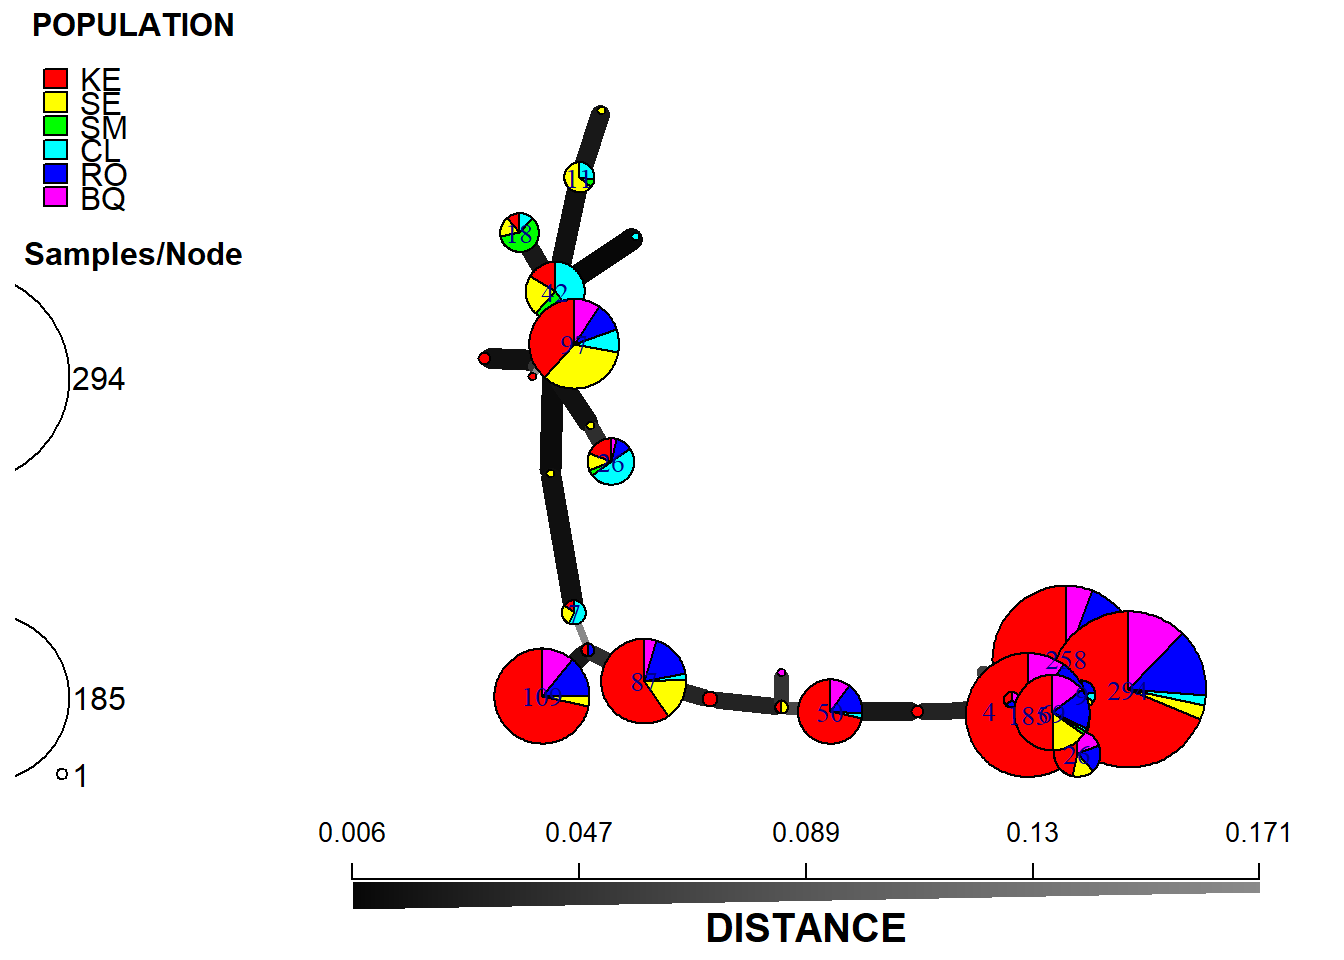
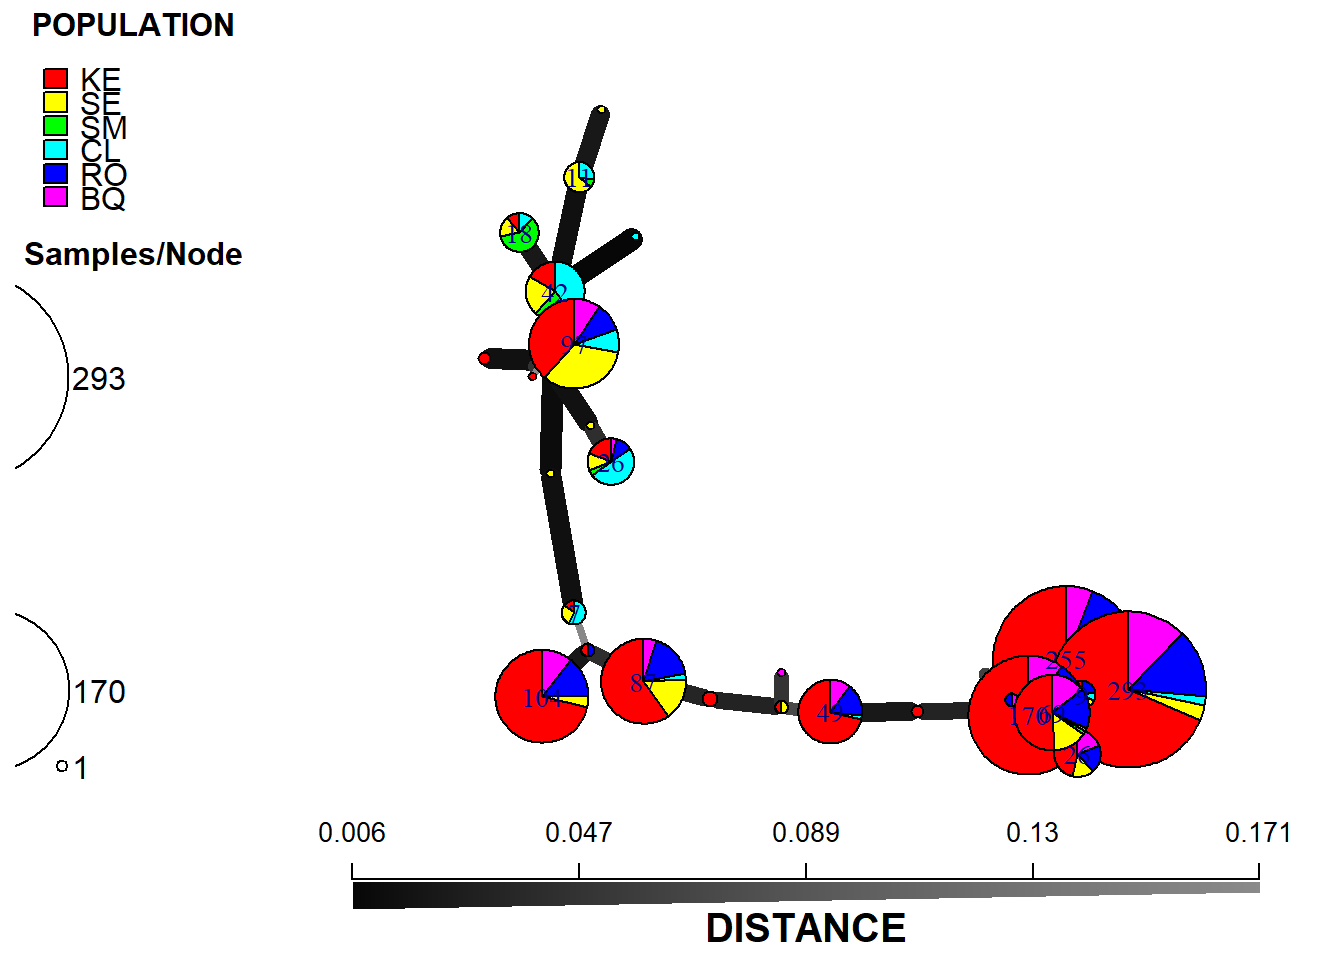
fixes

diff --git a/docs/pop2.html b/docs/pop2.html
@@ -495,7 +495,7 @@ data.frame(ssr = c(12,&quot;PInf_Ireland&quot;),
            pop =  length(unique(fin$Pop)))</code></pre>
 <div data-pagedtable="false">
 <script data-pagedtable-source type="application/json">
-{"columns":[{"label":["ssr"],"name":[1],"type":["fctr"],"align":["left"]},{"label":["samples"],"name":[2],"type":["int"],"align":["right"]},{"label":["pop"],"name":[3],"type":["int"],"align":["right"]}],"data":[{"1":"12","2":"1315","3":"51"},{"1":"PInf_Ireland","2":"1315","3":"51"}],"options":{"columns":{"min":{},"max":[10]},"rows":{"min":[10],"max":[10]},"pages":{}}}
+{"columns":[{"label":["ssr"],"name":[1],"type":["fctr"],"align":["left"]},{"label":["samples"],"name":[2],"type":["int"],"align":["right"]},{"label":["pop"],"name":[3],"type":["int"],"align":["right"]}],"data":[{"1":"12","2":"1287","3":"51"},{"1":"PInf_Ireland","2":"1287","3":"51"}],"options":{"columns":{"min":{},"max":[10]},"rows":{"min":[10],"max":[10]},"pages":{}}}
   </script>
 </div>
 <pre class="r"><code>write.table(data.frame(ssr = 12, samples = nrow(gen), pop =  length(unique(fin$Pop))),
@@ -528,7 +528,7 @@ monpop</code></pre>
 ## Genotype information:
 ## 
 ##      29 original multilocus genotypes 
-##    1315 triploid individuals
+##    1287 triploid individuals
 ##      12 codominant loci
 ## 
 ## Population information:
@@ -543,7 +543,7 @@ mutate(genotype = ifelse(genotype ==  &quot;6A1&quot;,&quot;EU_6_A1&quot;,
                                                  ifelse(genotype ==  &quot;8A1&quot;,&quot;EU_8_A1&quot;,&quot;&quot; ))))
  
 
-  
+monpop$strata$genotype &lt;- factor( monpop$strata$genotype, levels = c(&quot;EU_8_A1&quot;, &quot;EU_13_A2&quot;, &quot;EU_6_A1&quot;))
 # imsn()
 
 monpop_sub &lt;- popsub(monpop, blacklist = character(0))
@@ -557,7 +557,13 @@ monpop_sub &lt;- popsub(monpop, blacklist = character(0))
 min_span_net &lt;- bruvo.msn(monpop_sub, replen = c(1, 2, 3), add = TRUE, loss = TRUE, showplot = FALSE, include.ties = TRUE)
 set.seed(1000)
 
-cbbPalette &lt;- c (&quot;#3399ff&quot;, &quot;#ff33cc&quot;,&quot;#ffff33&quot;)</code></pre>
+cbbPalette &lt;- c (  &quot;#ff33cc&quot;, # pink 6
+                   &quot;#ffff33&quot;, # yellow 8
+                   &quot;#3399ff&quot;#blue 13
+                   )</code></pre>
+</div>
+<div id="bruvo-genotypes" class="section level2">
+<h2>Bruvo genotypes</h2>
 <pre class="r"><code>min_span_net &lt;- bruvo.msn(monpop, replen = c(1, 2, 3), add = TRUE, loss = TRUE, showplot = FALSE, include.ties = TRUE)
 plot_poppr_msn(monpop,
                min_span_net,
@@ -571,10 +577,20 @@ plot_poppr_msn(monpop,
                quantiles = FALSE,
                beforecut = TRUE,
                pop.leg = TRUE,
-               size.leg = FALSE,
+               size.leg = TRUE,
                scale.leg = TRUE,
                layfun = igraph::layout_nicely)</code></pre>
 <p><img src="pop2_files/figure-html/bruvo1-1.png" width="672" /></p>
+<pre class="r"><code>dev.copy(png,filename=here::here(&quot;results&quot;, &quot;gen&quot;,&quot;bruvo&quot;, &quot;Pop.png&quot;),
+         width = 700, height= 700 );</code></pre>
+<pre><code>## png 
+##   3</code></pre>
+<pre class="r"><code>dev.off ()</code></pre>
+<pre><code>## png 
+##   2</code></pre>
+</div>
+<div id="bruvo-year" class="section level2">
+<h2>Bruvo year</h2>
 <pre class="r"><code>setPop(monpop) &lt;- ~year
 monpop_sub &lt;- popsub(monpop, blacklist = character(0))
 min_span_net &lt;- bruvo.msn(monpop_sub, replen = c(1, 2, 3), add = TRUE, loss = TRUE, showplot = FALSE, include.ties = TRUE)
@@ -606,6 +622,9 @@ cbbPalette &lt;- c (&quot;#ff33cc&quot;,  &quot;#ffff33&quot;,&quot;#3399ff&quot
 <pre class="r"><code>dev.off ()</code></pre>
 <pre><code>## png 
 ##   2</code></pre>
+</div>
+<div id="bruvo-variety" class="section level2">
+<h2>Bruvo variety</h2>
 <pre class="r"><code>setPop(monpop) &lt;- ~variety
 
 monpop_sub &lt;- popsub(monpop, blacklist = character(0))
@@ -626,6 +645,9 @@ plot_poppr_msn(monpop,
                scale.leg = TRUE,
                layfun = igraph::layout_nicely)</code></pre>
 <p><img src="pop2_files/figure-html/bruvovar-1.png" width="672" /></p>
+</div>
+<div id="bruvo-year-and-genotype" class="section level2">
+<h2>Bruvo year and genotype</h2>
 <pre class="r"><code>setPop(monpop) &lt;- ~year/genotype
 monpop_sub &lt;- popsub(monpop, blacklist = character(0))
 min_span_net &lt;- bruvo.msn(monpop_sub, replen = c(1, 2, 3), add = TRUE, loss = TRUE, showplot = FALSE, include.ties = TRUE)
@@ -645,6 +667,9 @@ plot_poppr_msn(monpop,
                scale.leg = TRUE,
                layfun = igraph::layout_nicely)</code></pre>
 <p><img src="pop2_files/figure-html/year_gen_bruvo-1.png" width="672" /></p>
+</div>
+<div id="bruvo-year-and-variety" class="section level2">
+<h2>Bruvo year and variety</h2>
 <pre class="r"><code>setPop(monpop) &lt;- ~year/variety
 monpop_sub &lt;- popsub(monpop, blacklist = character(0))
 min_span_net &lt;- bruvo.msn(monpop_sub, replen = c(1, 2, 3), add = TRUE, loss = TRUE, showplot = FALSE, include.ties = TRUE)
@@ -675,7 +700,7 @@ plot_poppr_msn(monpop,
 ##  collate  English_United States.1252  
 ##  ctype    English_United States.1252  
 ##  tz       Europe/London               
-##  date     2019-11-04                  
+##  date     2019-11-05                  
 ## 
 ## - Packages --------------------------------------------------------------
 ##  package     * version  date       lib source        

diff --git a/docs/disdata.html b/docs/disdata.html
@@ -760,24 +760,20 @@ t1 &lt;-
   filter(t1, effect != &quot;ran_pars&quot;) %&gt;% 
   dplyr::select(-c(component, group))
 
-panderOptions(&#39;round&#39;, 2)
-panderOptions(&#39;keep.trailing.zeros&#39;, TRUE)
-pander(poly_3_fit, add.significance.stars = TRUE)</code></pre>
-<p>Error in pander(poly_3_fit, add.significance.stars = TRUE) : object ‘poly_3_fit’ not found Calls: <Anonymous> … withCallingHandlers -&gt; withVisible -&gt; eval -&gt; eval -&gt; pander In addition: Warning messages: 1: In mutate_impl(.data, dots, caller_env()) : Unequal factor levels: coercing to character 2: In mutate_impl(.data, dots, caller_env()) : binding character and factor vector, coercing into character vector 3: In mutate_impl(.data, dots, caller_env()) : binding character and factor vector, coercing into character vector 4: In mutate_impl(.data, dots, caller_env()) : binding character and factor vector, coercing into character vector 5: In mutate_impl(.data, dots, caller_env()) : binding character and factor vector, coercing into character vector 6: In mutate_impl(.data, dots, caller_env()) : binding character and factor vector, coercing into character vector 7: In mutate_impl(.data, dots, caller_env()) : binding character and factor vector, coercing into character vector</p>
-<pre class="r"><code>write_csv(t1, path = here::here(&quot;results&quot;, &quot;dis&quot;, &quot;fit_rest.csv&quot;))</code></pre>
+write_csv(t1, path = here::here(&quot;results&quot;, &quot;dis&quot;, &quot;fit_rest.csv&quot;))</code></pre>
 </div>
 <div id="post-hoc" class="section level2">
 <h2><em>Post hoc</em></h2>
 <pre class="r"><code>ae &lt;- allEffects(fit_2016)
 
-plot(ae,multiline=TRUE,confint=TRUE,ci.style=&quot;bars&quot;
+plot(ae[[2]],multiline=TRUE,confint=TRUE,ci.style=&quot;bars&quot;
      ,main=&quot;Effect of treatment and variety in 2016&quot;
      ,xlab=&quot;Treatment&quot;
      ,ylab=&quot;Variety&quot;); rm(ae)
 
 e &lt;- allEffects(fit_rest)
 
-plot(e,multiline=TRUE,confint=TRUE,ci.style=&quot;bars&quot;
+plot(e[[2]],multiline=TRUE,confint=TRUE,ci.style=&quot;bars&quot;
      ,main=&quot;Effect of treatment and variety 2017-2019&quot;
      ,xlab=&quot;Treatment&quot;
      ,ylab=&quot;Variety&quot;); rm(e)</code></pre>
@@ -839,6 +835,7 @@ drest$pairs &lt;-
 
 drest$.group &lt;- trimws(drest$.group)
 
+p_rest &lt;- 
 ggplot(drest, aes(x=pairs, y = prop, colour = treatment))+
   geom_errorbar(aes(ymin=lower.CL, ymax=upper.CL), width=.2)+
   geom_point(size = .1)+
@@ -853,12 +850,15 @@ ggplot(drest, aes(x=pairs, y = prop, colour = treatment))+
     size = 2
   ) +
   theme_bw()+
-  theme(axis.text.y = element_text(size = 8))+
-  ggsave(filename= here::here(&quot;results&quot;, &quot;dis&quot;, &quot;pairwise comparisons.png&quot;), 
-         width = 7, height = 11.5, dpi = 420)</code></pre>
+  theme(axis.text.y = element_text(size = 8))
+p_rest</code></pre>
 <p><img src="disdata_files/figure-html/comparisions_rest-1.png" width="100%" height="15" /></p>
-<p>The model fits are combined in a single data set and presented in a single Figure.</p>
-<pre class="r"><code>d1 &lt;- 
+<pre class="r"><code>  ggsave(p_rest,filename= here::here(&quot;results&quot;, &quot;dis&quot;, &quot;pairwise comparisons.png&quot;), 
+         width = 7, height = 11.5, dpi = 420)
+rm(p_rest)</code></pre>
+<p>The model fits are combined in a single data set and presented in one figure.</p>
+<pre class="r"><code>d2016$year &lt;- factor(2016)
+d1 &lt;- 
   dplyr::bind_rows(d2016, drest)
 
 
@@ -907,6 +907,7 @@ d1 %&gt;%
     alpha = .5,
     position = position_dodge(width = dodging)
   ) +
+  scale_color_brewer(&quot;Programme:&quot;, palette = &quot;Dark2&quot;) +
   theme_article() +
   theme(legend.position = &quot;top&quot;) +
   geom_vline(aes(xintercept = line_positions),
@@ -936,7 +937,7 @@ rm(p_fin)</code></pre>
 ##  collate  English_United States.1252  
 ##  ctype    English_United States.1252  
 ##  tz       Europe/London               
-##  date     2019-11-04                  
+##  date     2019-11-05                  
 ## 
 ## - Packages --------------------------------------------------------------
 ##  ! package      * version  date       lib source        
